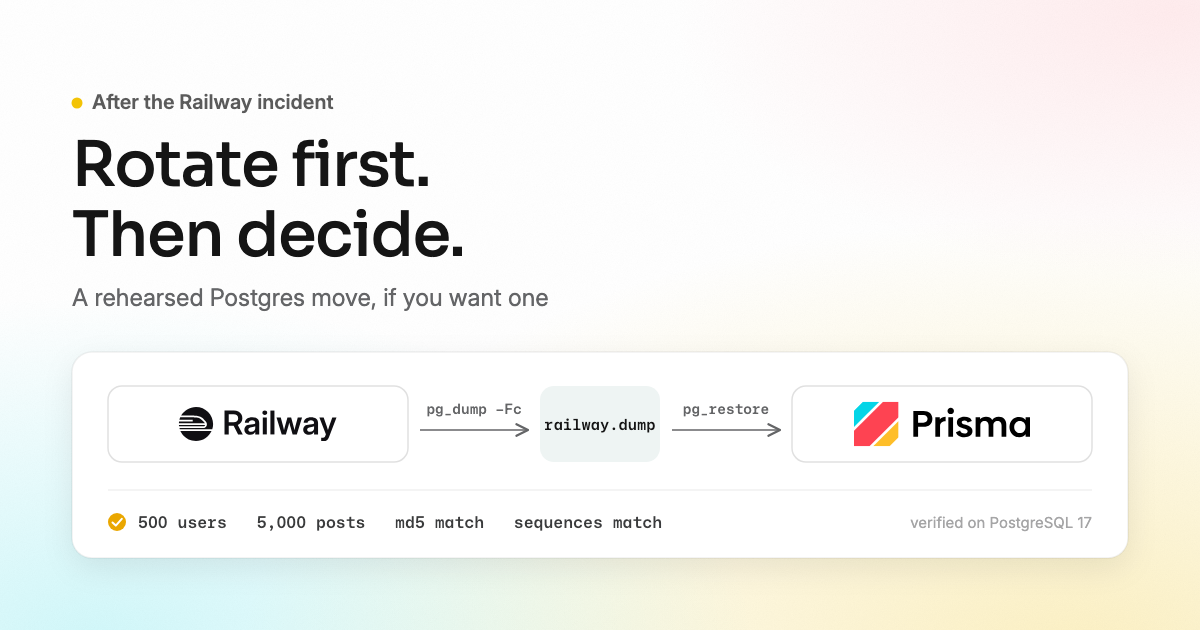
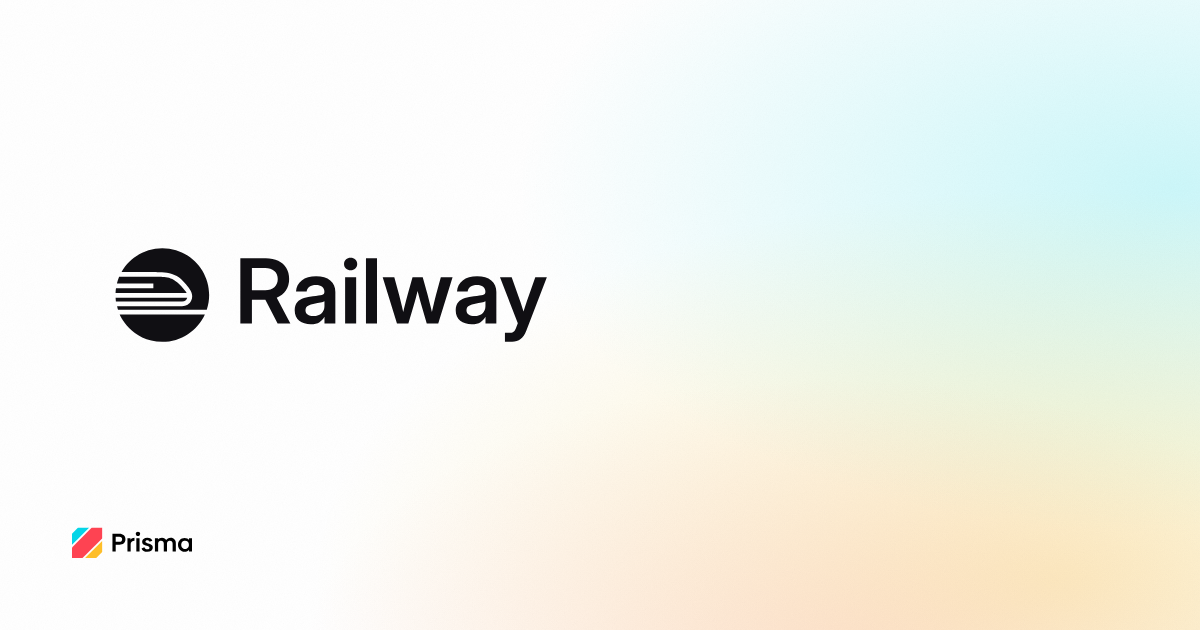
blog: restructure the Railway post and add a tracked footer CTA
Rewrites the post around four sections (what happened, what to do now on
any host, the migration option, try Prisma), follows the documented
single-transaction restore and cutover process, and replaces the cover with
Railway's logotype alone.

Makes the blog's end-of-post CTA panel configurable through a `cta`
frontmatter field and wires the blog's PostHog client to the shared
trackCTA event so footer clicks arrive as `site:cta_clicked`, the same event
the marketing site sends. The post points the button at
console.prisma.io/sign-up with campaign UTMs; the `/sign-up` path keeps the
query string where the Console root's redirect drops it.

diff --git a/apps/blog/src/components/BlogCTA.tsx b/apps/blog/src/components/BlogCTA.tsx
@@ -3,7 +3,27 @@
 import { Button } from "@prisma/eclipse";
 import { trackCTA } from "@prisma-docs/ui/lib/analytics";
 
-const CTA_HREF = "https://console.prisma.io/sign-up";
+const DEFAULT_HREF = "https://console.prisma.io/sign-up";
+const DEFAULT_TITLE = "Build your next app with Prisma";
+const DEFAULT_DESCRIPTION = "Start free. Scale when you’re ready.";
+const DEFAULT_TEXT = "Try Prisma";
+const CTA_LOCATION = "blog_post_footer";
+
+export type BlogCTAProps = {
+  /** Panel heading; defaults to the brand line. */
+  title?: string;
+  /** One-line supporting copy under the heading. */
+  description?: string;
+  /** Button label, also sent as `cta_text` on the click event. */
+  text?: string;
+  /**
+   * Console destination. Posts that want campaign attribution pass a
+   * `console.prisma.io/sign-up?utm_*` URL here; `/sign-up` and `/login` keep
+   * their query string through the Console's auth redirect, the bare `/`
+   * does not.
+   */
+  href?: string;
+};
 
 /**
  * The end-of-post conversion panel, and the one place in the reading flow
@@ -18,8 +38,18 @@ const CTA_HREF = "https://console.prisma.io/sign-up";
  *
  * The wash is a decorative layer with `aria-hidden`; the ring's slide
  * animation carries the utility's own `prefers-reduced-motion` guard.
+ *
+ * The click goes through `trackCTA`, which pushes `cta_click` to the GTM
+ * dataLayer (consent-gated) and dispatches the DOM event the blog's PostHog
+ * client turns into `site:cta_clicked`, the same event the marketing site
+ * sends for its Console-bound buttons.
  */
-export const BlogCTA = () => {
+export const BlogCTA = ({
+  title = DEFAULT_TITLE,
+  description = DEFAULT_DESCRIPTION,
+  text = DEFAULT_TEXT,
+  href = DEFAULT_HREF,
+}: BlogCTAProps = {}) => {
   return (
     <div className="spectrum-border spectrum-border-on relative mb-12 overflow-hidden rounded-square-high border border-transparent bg-paper shadow-box">
       <div
@@ -36,25 +66,24 @@ export const BlogCTA = () => {
       <div className="relative z-1 flex flex-col items-center gap-6 px-6 py-16 text-center">
         <div className="flex flex-col items-center gap-3">
           <h3 className="type-title-2xl m-0 text-balance text-foreground-neutral-strong">
-            Build your next app with Prisma
+            {title}
           </h3>
-          <p className="m-0 max-w-md text-foreground-neutral-weak">
-            Start free. Scale when you&rsquo;re ready.
-          </p>
+          <p className="m-0 max-w-md text-foreground-neutral-weak">{description}</p>
         </div>
         <Button asChild variant="ink" size="2xl">
           <a
-            href={CTA_HREF}
+            href={href}
+            data-cta-location={CTA_LOCATION}
             onClick={() =>
               trackCTA({
-                cta_text: "Try Prisma",
-                cta_location: "blog_post_footer",
-                cta_destination: CTA_HREF,
+                cta_text: text,
+                cta_location: CTA_LOCATION,
+                cta_destination: href,
                 section: "blog",
               })
             }
           >
-            <span>Try Prisma</span>
+            <span>{text}</span>
             <i className="fa-regular fa-arrow-right" aria-hidden />
           </a>
         </Button>

diff --git a/apps/blog/src/instrumentation-client.ts b/apps/blog/src/instrumentation-client.ts
@@ -1,4 +1,5 @@
 import { captureBrowserAcquisition } from "@prisma-docs/ui/lib/acquisition.browser";
+import { onCtaClick } from "@prisma-docs/ui/lib/analytics";
 import posthog from "posthog-js";
 import { hasAnalyticsConsent, onAnalyticsConsentChange } from "@prisma-docs/ui/lib/consent";
 import { getPaidPersonProperties, onAttributionChange } from "@prisma-docs/ui/lib/attribution";
@@ -78,6 +79,28 @@ function recordPaidTouch(attribution: UtmAttribution) {
 }
 
 onAttributionChange(recordPaidTouch);
+
+// Every `trackCTA` click (the post footer button, the logo menu's asset
+// downloads), as the same `site:cta_clicked` event the marketing site sends,
+// so a post's footer button can be set against its pageviews and the
+// Console's arrivals in one funnel; filter on `cta_location`. `trackCTA`
+// already pushes `cta_click` to GTM for GA4 (consent-gated); this capture is
+// counted cookielessly before consent too. Sent at once over a beacon because the click navigates to
+// another origin and a batched request would be lost with the page. The
+// campaign params ride on the event, as PostHog attaches them to every event.
+onCtaClick((cta) => {
+  posthog.capture(
+    "site:cta_clicked",
+    {
+      cta_text: cta.cta_text,
+      cta_location: cta.cta_location,
+      cta_destination: cta.cta_destination,
+      section: cta.section ?? "blog",
+      page_path: window.location.pathname,
+    },
+    { send_instantly: true, transport: "sendBeacon" },
+  );
+});
 
 // Landings that arrive before UtmPersistence mounts are covered by replaying
 // whatever is already stored.

diff --git a/apps/blog/source.config.ts b/apps/blog/source.config.ts
@@ -27,6 +27,20 @@ export const blogPosts = defineCollections({
     pinned: z.boolean().optional(),
     prev: z.string().optional(),
     next: z.string().optional(),
+    /**
+     * Per-post override for the end-of-post conversion panel. The panel is
+     * rendered for every post; a post that wants a campaign-specific label or
+     * a tracked Console URL (UTMs) sets these instead of adding a second CTA
+     * inside the article.
+     */
+    cta: z
+      .object({
+        title: z.string().trim().min(1).optional(),
+        description: z.string().trim().min(1).optional(),
+        text: z.string().trim().min(1).optional(),
+        href: z.string().url().optional(),
+      })
+      .optional(),
     tags: z
       .array(
         z.enum([

diff --git a/apps/blog/src/app/(blog)/[slug]/page.tsx b/apps/blog/src/app/(blog)/[slug]/page.tsx
@@ -332,8 +332,10 @@ export default async function Page(props: { params: Promise<{ slug: string }> })
             larger gap and neither needed a style change. */}
         <KeepReading posts={relatedPosts} />
 
-        {/* Conversion CTA */}
-        <BlogCTA />
+        {/* Conversion CTA. A post can relabel it and point it at a tracked
+            Console URL through the `cta` frontmatter field instead of adding
+            a second button inside the article. */}
+        <BlogCTA {...(page.data.cta ?? {})} />
 
         {/* Share Container */}
         <BlogShare desc={page.data.metaDescription as string} />
